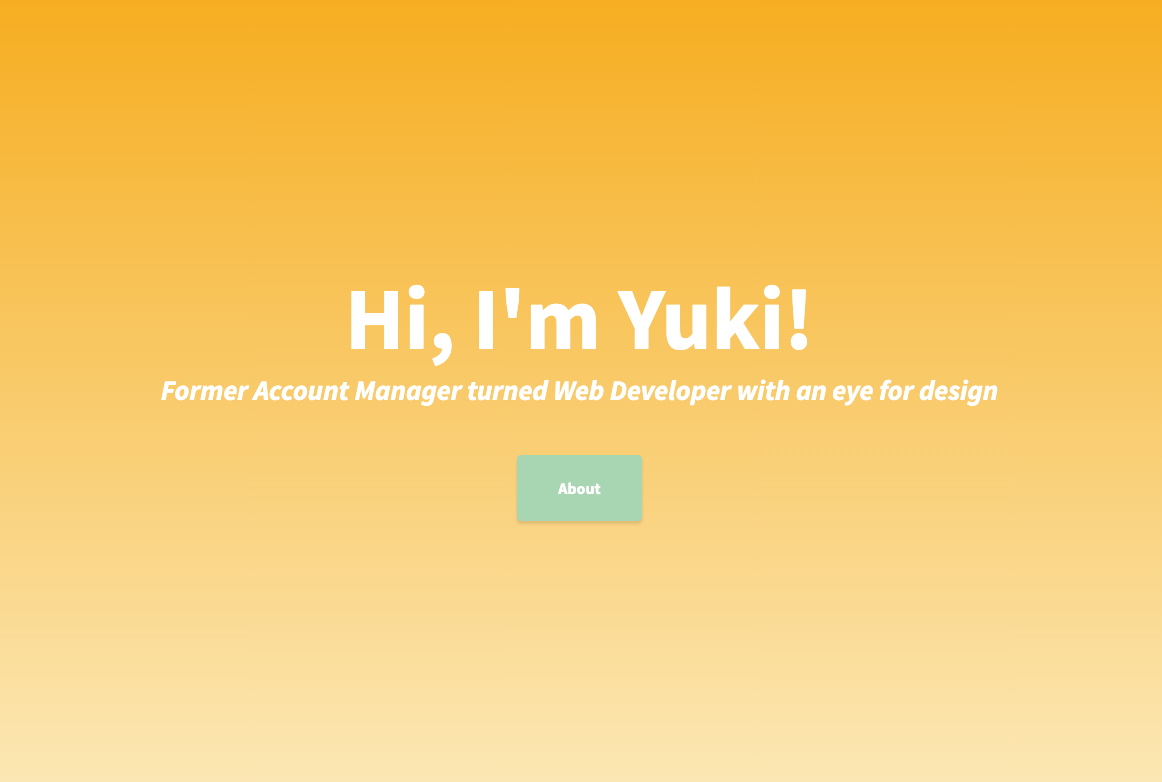
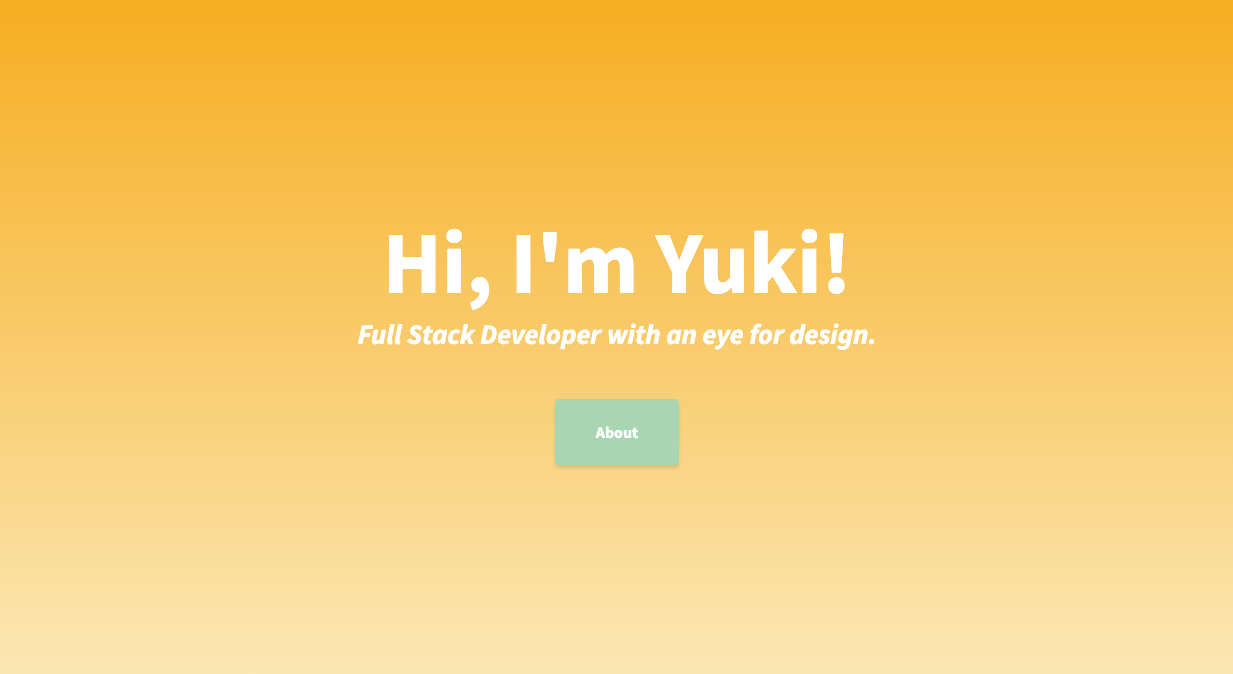
edited content

Changed region(s): [[0.1239, 0.3427, 0.8675, 0.5297], [0.4337, 0.5608, 0.5577, 0.7166]]

diff --git a/src/components/Header.js b/src/components/Header.js
@@ -8,9 +8,9 @@ export default class Header extends Component {
       openMenu: false,
     };
   }
-  // toggleMenu = value => {
-  //   this.setState({ openMenu: value });
-  // };
+  toggleMenu = value => {
+    this.setState({ openMenu: value });
+  };
 
   render() {
     const { openMenu } = this.state;
@@ -19,7 +19,7 @@ export default class Header extends Component {
         <a
           onClick={_ => this.toggleMenu(!openMenu)}
           className={`menu-toggle rounded ${openMenu ? 'active' : ''}`}
-          href="/#"
+          // href="/#"
         >
           {openMenu ? (
             <i className="fas fa-times" />
@@ -32,7 +32,7 @@ export default class Header extends Component {
             <li className="sidebar-brand">
               <a href="#page-top">{config.siteTitle}</a>
             </li>
-            {/* <li className="sidebar-nav-item">
+            <li className="sidebar-nav-item">
               <Scroll
                 onClick={_ => this.toggleMenu(!openMenu)}
                 type="class"
@@ -40,7 +40,7 @@ export default class Header extends Component {
               >
                 <a href="#page-top">Home</a>
               </Scroll>
-            </li> */}
+            </li>
             <li className="sidebar-nav-item">
               <Scroll
                 onClick={_ => this.toggleMenu(!openMenu)}
@@ -50,15 +50,6 @@ export default class Header extends Component {
                 <a href="#about">About</a>
               </Scroll>
             </li>
-            {/* <li className="sidebar-nav-item">
-              <Scroll
-                onClick={_ => this.toggleMenu(!openMenu)}
-                type="id"
-                element="services"
-              >
-                <a href="#services">Services</a>
-              </Scroll>
-            </li> */}
             <li className="sidebar-nav-item">
               <Scroll
                 onClick={_ => this.toggleMenu(!openMenu)}

diff --git a/src/components/About.js b/src/components/About.js
@@ -20,9 +20,9 @@ const About = ({ profileImg }) => {
               Yuki(Xue) Yao
             </h2>
             <p className="lead mb-5" style={{width: '80%', margin: '0 auto'}}>
-            I'm a Full Stack Developer with strong background in Ecommerce and Internet industries. Former Optimization and Account Manager utilizing vast technology knowledge <br/>
-            to provide technical support and optimal solutions to clients.<br/><br/>
-            I believe that technology can solve real life problem. Every step of designing and building things is truly exciting!<br/><br/>
+            I'm a Full Stack Developer with strong background in E-commerce and SaaS. <br/>
+            Through years of experience at tech startups and Fortune 500, 
+            I utilized vast knowledge to analyze, communicate, improve, and resolve product and operation issues.<br/><br/>
             <strong>Programming Language: </strong>JavaScript, Ruby, HTML, CSS <br/>
             <strong>Frameworks and Libraries: </strong>React, Ruby on Rails, Redux, jQuery, Gatsby, Semantic UI <br/>
             <strong>Database Management System: </strong>PostgreSQL<br/>

diff --git a/config.js b/config.js
@@ -9,7 +9,7 @@ module.exports = {
   manifestIcon: 'src/images/icon.png',
   pathPrefix: `/xueyaoyuki/`, // This path is subpath of your hosting https://domain/portfolio
   heading: "Hi, I'm Yuki!",
-  subHeading: 'Former Account Manager turned Web Developer with an eye for design',
+  subHeading: 'Full Stack Developer with an eye for design.',
 
   // social
   socialLinks: [
